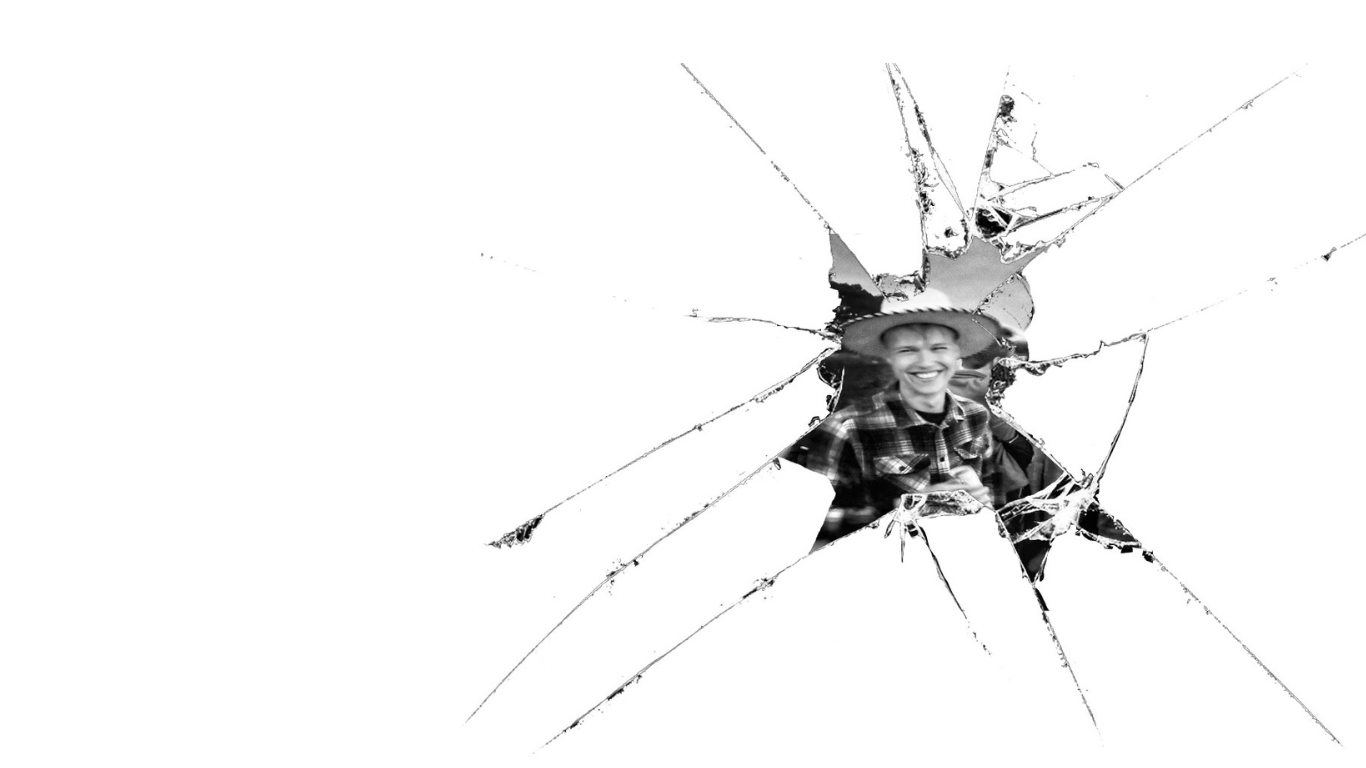
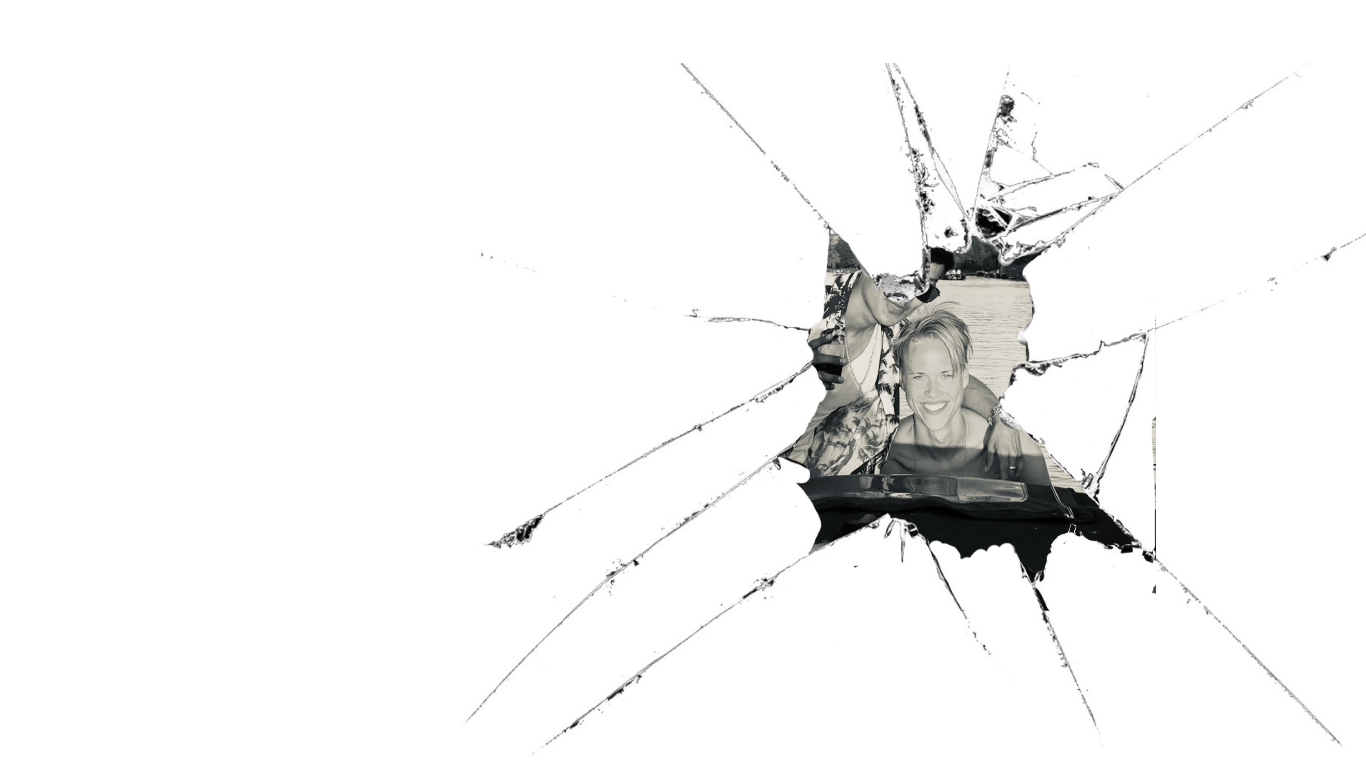
daw

Changed region(s): [[0.5534, 0.3125, 0.8302, 0.75]]

diff --git a/styles.css b/styles.css
@@ -118,65 +118,54 @@ body {
   
   /* About section styles */
   #about {
-    display: flex;
-    align-items: flex-start;
-    flex-wrap: wrap;
-    justify-content: flex-start;
+
+    margin-top: -200px;
     max-width: 1000px;
-    margin: auto;
+    
 
   }
 
   .about-content {
-   
-    display: flex;
-    align-items: flex-start;
-    flex-wrap: wrap;
-    gap: 1rem;
+    display: flex; /* Add this line */
+    flex-wrap: wrap; /* Add this line */
+    justify-content: space-between; /* Add this line */
+    margin-left: 70px;
     max-width: 100%;
-    margin-bottom: 1rem;
-    margin-top: -200px;
-    margin-right: 450px;
-    margin-left: -150px;  
-  }
 
-  .profile-picture {
-    flex: 0 0 250px;
-    margin-right: 3rem;
   }
-
-  .profile-picture img {
-    
-    height: auto;
-    border-radius: 50%;
-    height: 300px;
-    width: 250px;
-  }
-
+ 
   .about-text {
-    
-    flex: 1;
-    background-color: rgba(20, 20, 20, 0.4);
-    border-radius: 20px 20px 10px 10px;
+    background-color: rgba(20, 20, 20, 0.2);
+    border-radius: 20px 20px 20px 20px;
     padding: 10px;
-   
+    float: left; 
+    margin-right: 20px;
+    max-width: calc(100% - 320px); /* adjust the width according to your needs */
   }
+  
 
   .about-text p {
     text-align: center;
    /* text-shadow: 0.5px 0.5px 1px rgba(255, 255, 255, 1); */
-    color: white;
+    color: rgb(0, 0, 0);
+    text-shadow: 1px 1px 2px rgb(255, 255, 255);
   }
 
   .social-media-container {
     display: flex;
-    justify-content: flex-start;
-    align-items: center;
-    flex-wrap: nowrap; /* Add this line */
+    justify-content: center;
+    
+    flex-wrap: wrap; /* Add this line */
+    margin-top: 20px; /* Add this line */
+    max-width: 100%; /* Add this line */
   }
+  .social-media-container a {
+    margin: 0 10px; /* Add this line */
+    }
   
   /* My Skills Section */ 
   .skills-container {
+  opacity: 0.8;  
   display: flex;
   justify-content: flex-start;
   align-items: flex-start;
@@ -185,7 +174,8 @@ body {
 }
 
 .skills-section {
-  width: 30%;
+  margin-top: 15px;
+  width: 15%;
   background-color: rgba(245, 245, 245, 0.9);
   border-radius: 20px 20px 10px 10px;
   padding: 10px;
@@ -213,7 +203,7 @@ body {
 }
 
 .skills-section li .bar {
-  width: 75%;
+  width: 35%;
   height: 10px;
   background-color: #e6e6e6;
   border-radius: 5px;
@@ -229,70 +219,6 @@ body {
   border-radius: 5px;
 }
 
-.skills-section li .bar .python {
-  width: 80%;
-  background-color: #3776ab;
-}
-
-.skills-section li .bar .java {
-  width: 90%;
-  background-color: #4f6066;
-}
-
-.skills-section li .bar .html-css {
-  width: 95%;
-  background-color: #f06529;
-}
-
-.skills-section li .bar .xml {
-  width: 100%;
-  background-color: #ffa500;
-}
-
-.skills-section li .bar .javascript {
-  width: 95%;
-  background-color: #f0db4f;
-}
-
-.skills-section li .bar .react {
-  width: 80%;
-  background-color: #61dbfb;
-}
-
-.skills-section li .bar .redux {
-  width: 80%;
-  background-color: #803098;
-}
-
-.skills-section li .bar .typescript {
-  width: 50%;
-  background-color: #007acc;
-}
-
-.skills-section li .bar .sql {
-  width: 70%;
-  background-color: #05123b;
-}
-
-.skills-section li .bar .command-prompt {
-  width: 85%;
-  background-color: #000000;
-}
-
-.skills-section li .bar .prompting {
-  width: 95%;
-  background-color: #6f42c1;
-}
-
-.skills-section li .bar .swift {
-  width: 40%;
-  background-color: #ff5733;
-}
-
-.skills-section li .bar .c {
-  width: 85%;
-  background-color: #007396;
-}
 
 .skills-section li .bar .english {
   width: 100%;
@@ -336,7 +262,7 @@ body {
 
 .skills-section li .bar .bartending {
   width: 85%;
-  background-color: #31a8ff;
+  background-color: #b6b6b6;
 }
 
 .skills-section li .bar .ui-design {

diff --git a/index.html b/index.html
@@ -33,8 +33,8 @@
         <h2 id="quote">Innovator, Artist and Maverick.</h2>    
         
         
-      </section>
-      <section>
+    </section>
+    <section>
         
         <div id="about">
           <div class="about-content">
@@ -59,30 +59,31 @@ Let's collaborate and create something amazing together!</P>
             </div> -->
               <div class="social-media-container">
                 <a href="https://www.github.com/yourusername">
-                  <img style="width: 30%; height: 30%" src="./img/github-icon.png" alt="GitHub">
+                  <img style="margin-left:10px ;width: 55px; margin-right: 60px; height: 55px" src="./img/github-icon.png" alt="GitHub">
                 </a>
                 <a href="https://www.github.com/yourusername">
-                  <img style="width: 45%; height: 45%; margin-left: -60px;" src="./img/telefoon-icon.png" alt="Telefoon">
+                  <img style="width: 65px;margin-right: 60px; height: 65px " src="./img/telefoon-icon.png" alt="Telefoon">
                 </a>
                 <a href="https://www.youtube.com/yourusername">
-                  <img style="width: 50%; height: 30%; margin-right: 15px; margin-left: -80px;"src="./img/youtube-icon.jpg" alt="YouTube">
+                  <img style="width: 60px;margin-right: 60px; margin-top: 3px; height: 60px "src="./img/youtube-icon.jpg" alt="YouTube">
                 </a>
                 <a href="https://www.instagram.com/yourusername">
-                  <img style="width: 16%; height: 10%; margin-left: -80px;" src="./img/instagram-icon.png" alt="Instagram">
+                  <img style="width: 40px;margin-right: 60px; margin-top: 13px; height: 40px" src="./img/instagram-icon.png" alt="Instagram">
                 </a>
                 <a href="https://www.twitter.com/yourusername">
-                  <img style="width: 45%; height: 35%; margin-left: -200px;" src="./img/twitter-icon.png" alt="Twitter">
+                  <img style="width: 45px; margin-top: 10px; height: 45px " src="./img/twitter-icon.png" alt="Twitter">
                 </a>
       
               </div>
           
           </div>
         </div>
-      </section>
+    </section>
       <!--  SECTION MY SKILLS ---------------------------------------------------     -->
-     <section id="skills">
+    <section id="skills">
       <div id="skillsss">
-        <img style="width: 500%; opacity: 0.9;" src="./img/2003.png">
+        <img style="width: 650px; margin-left: 70px;   border-radius: 20px 20px 10px 10px;
+        padding: 10px; " src="./img/2003.png">
       </div>
       <div class="skills-container">
        <!--    <div class="skills-section">
@@ -104,7 +105,7 @@ Let's collaborate and create something amazing together!</P>
             <li>Swift <span class="bar"><span class="swift"></span></span></li>
           </ul>
         </div>-->
-        <div class="skills-section">
+        <div style="margin-left: 85px;" class="skills-section">
           <h3>Other Skills</h3>
           <ul>
            
